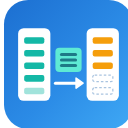
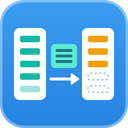
Release Shuffle fixes and bypass: extension 9.0.98 (#61)
* Fix the clipped and off-centre extension icon

The 128 px icon was rendered at a quarter scale in headless Chrome, which
drew the page slightly narrower than the window: the image came out shifted
right with its right edge cut off. It is now downscaled from the 512 px
render instead.

Also centres the content - the bars sat 36 px from the top of each column
but 26 px from the bottom, and the batch and arrow sat 14 px low - and adds
a light edge so the icon no longer blends into the Marketplace's blue banner.

* Re-anchor the test baseline to the published 9.0.97

9.0.97 is live on the Marketplace. tests/fixtures/published-baseline.json now
records its task ids and versions (ShuffleExport 9.0.14, ShuffleImport 9.0.13),
so the 'never lowers a task version' floor tracks what consumers actually have.

Verified both directions: the suite is green against 9.0.97 (89 passed), and
the superseded 9.0.96 package is now correctly rejected (ShuffleExport 9.0.13
is below the published 9.0.14).

* Release Shuffle fixes and bypass: extension 9.0.98

Bumps modules/Xrm.Shuffle to 916beb4, which adds:
- bypass custom logic on import (BypassSyncLogic, BypassAsyncLogic,
  BypassFlows on the definition), with a warning and no stop on servers
  that cannot bypass everything;
- a closing line with the total run time and counts for every import and
  export;
- N:N relationships from a table to itself import (every record failed);
[…]

diff --git a/RELEASING.md b/RELEASING.md
@@ -41,7 +41,8 @@ Rule 2 is what makes a naive rollback fail silently — see below.
 3. **Package.**
 
    ```powershell
-   .\Extension\pack.ps1        # answer N to "Update revision?" if you set the version by hand
+   .\Extension\pack.ps1        # answer N to "Update revision?" if you set the version by hand,
+                               # and N to "Publish extension?" - publish only after steps 4 and 5
    ```
 
 4. **Gate it.** Must be green.
@@ -55,18 +56,28 @@ Rule 2 is what makes a naive rollback fail silently — see below.
    normally lands on the pwsh 7 module path, so 5.1 sees only the inbox Pester 3.4.0 and
    cannot run the Pester suite. `Test-Connection.ps1` needs no test framework.
 
+   Set the connection string with a hidden prompt. Typing `$env:CRM_ONLINE_CONNSTR = '...'`
+   directly works too, but saves the secret in PowerShell's history file.
+
    ```powershell
    # online - this is the run that exercises the ADAL 3.19.8 load path
-   $env:CRM_ONLINE_CONNSTR = 'AuthType=ClientSecret;Url=https://...;ClientId=...;ClientSecret=...'
+   # paste e.g. AuthType=ClientSecret;Url=https://...;ClientId=...;ClientSecret=...
+   $env:CRM_ONLINE_CONNSTR = [Runtime.InteropServices.Marshal]::PtrToStringBSTR([Runtime.InteropServices.Marshal]::SecureStringToBSTR((Read-Host 'Online connection string' -AsSecureString)))
    .\tests\Test-Connection.ps1
 
    # on-prem - AD/IFD uses WS-Trust and never loads ADAL, which the script expects
-   $env:CRM_ONPREM_CONNSTR = 'AuthType=AD;Url=http://crmserver/org;Domain=...;Username=...;Password=...'
+   # paste e.g. AuthType=AD;Url=http://crmserver/org;Domain=...;Username=...;Password=...
+   $env:CRM_ONPREM_CONNSTR = [Runtime.InteropServices.Marshal]::PtrToStringBSTR([Runtime.InteropServices.Marshal]::SecureStringToBSTR((Read-Host 'On-prem connection string' -AsSecureString)))
    .\tests\Test-Connection.ps1 -Target OnPrem
    ```
 
    Both must pass. Set the connection strings in that window rather than passing them as
    arguments, so they stay out of shell history and process arguments.
+
+   **Close the window afterwards.** That clears the connection strings, and it releases the
+   task DLLs `Test-Connection.ps1` loaded from `Extension\Implementation\WhoAmI\ps_modules`.
+   .NET Framework cannot unload them, and while they are loaded `pack.ps1` fails with
+   "Access to the path ... is denied".
 
 6. **Publish the exact artifact you just tested** — via the
    [publisher portal](https://marketplace.visualstudio.com/manage/publishers/innofactorse)
@@ -160,6 +171,10 @@ above whatever is then live - the same version-inversion rule applies.
 > 9.0.14 - the same task numbers the rollback uses). The prepared package above is a rollback to
 > 9.0.95 and can no longer be published as it is: renumber every task above its live version, and
 > the extension above the live extension, before using it.
+>
+> **9.0.98** followed (ShuffleImport 9.0.14, ShuffleExport 9.0.15, and a new extension icon), so
+> the floor for a renumbered rollback is now ShuffleImport 9.0.15, ShuffleExport 9.0.16 and
+> extension 9.0.99.
 
 Running the gate against it fails exactly two assertions, both correct:
 
